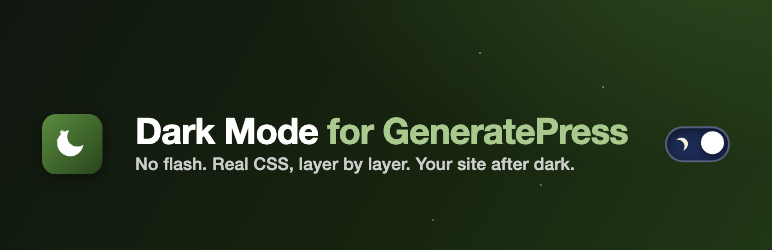
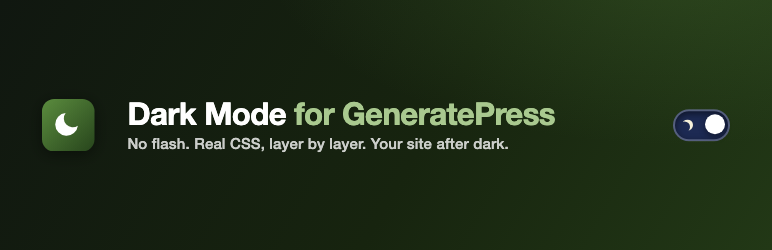
updates

Changed region(s): [[0.0311, 0.392, 0.9637, 0.7]]

diff --git a/wporg-assets/src/banner.html b/wporg-assets/src/banner.html
@@ -29,13 +29,7 @@
 </style></head>
 <body>
 <div class="banner">
-	<div class="stars">
-		<span style="left:62%;top:18%;width:.7vh;height:.7vh;"></span>
-		<span style="left:70%;top:64%;width:.5vh;height:.5vh;opacity:.35;"></span>
-		<span style="left:56%;top:76%;width:.6vh;height:.6vh;opacity:.3;"></span>
-		<span style="left:78%;top:30%;width:.5vh;height:.5vh;opacity:.4;"></span>
-	</div>
-	<div class="mark"><svg xmlns="http://www.w3.org/2000/svg" viewBox="0 0 60 60"><defs><linearGradient id="g" x1="0" y1="0" x2="1" y2="1"><stop offset="0" stop-color="#5b8c3e"/><stop offset="1" stop-color="#27451c"/></linearGradient></defs><rect width="60" height="60" rx="14" fill="url(#g)"/><path d="M41 30.5A13 13 0 1 1 27 16a10.2 10.2 0 0 0 14 14.5z" fill="#fff"/><circle cx="20" cy="18" r="2" fill="#fff" opacity=".85"/><circle cx="16" cy="26" r="1.3" fill="#fff" opacity=".6"/></svg></div>
+	<div class="mark"><svg xmlns="http://www.w3.org/2000/svg" viewBox="0 0 60 60"><defs><linearGradient id="g" x1="0" y1="0" x2="1" y2="1"><stop offset="0" stop-color="#5b8c3e"/><stop offset="1" stop-color="#27451c"/></linearGradient></defs><rect width="60" height="60" rx="14" fill="url(#g)"/><path d="M41 30.5A13 13 0 1 1 27 16a10.2 10.2 0 0 0 14 14.5z" fill="#fff"/></svg></div>
 	<div>
 		<h1>Dark Mode <span class="for">for GeneratePress</span></h1>
 		<p>No flash. Real CSS, layer by layer. Your site after dark.</p>

diff --git a/wporg-assets/src/icon.html b/wporg-assets/src/icon.html
@@ -4,5 +4,5 @@
 	svg { display: block; width: 100vw; height: 100vh; }
 </style></head>
 <body>
-<svg xmlns="http://www.w3.org/2000/svg" viewBox="0 0 60 60"><defs><linearGradient id="g" x1="0" y1="0" x2="1" y2="1"><stop offset="0" stop-color="#5b8c3e"/><stop offset="1" stop-color="#27451c"/></linearGradient></defs><rect width="60" height="60" rx="14" fill="url(#g)"/><path d="M41 30.5A13 13 0 1 1 27 16a10.2 10.2 0 0 0 14 14.5z" fill="#fff"/><circle cx="20" cy="18" r="2" fill="#fff" opacity=".85"/><circle cx="16" cy="26" r="1.3" fill="#fff" opacity=".6"/></svg>
+<svg xmlns="http://www.w3.org/2000/svg" viewBox="0 0 60 60"><defs><linearGradient id="g" x1="0" y1="0" x2="1" y2="1"><stop offset="0" stop-color="#5b8c3e"/><stop offset="1" stop-color="#27451c"/></linearGradient></defs><rect width="60" height="60" rx="14" fill="url(#g)"/><path d="M41 30.5A13 13 0 1 1 27 16a10.2 10.2 0 0 0 14 14.5z" fill="#fff"/></svg>
 </body></html>
